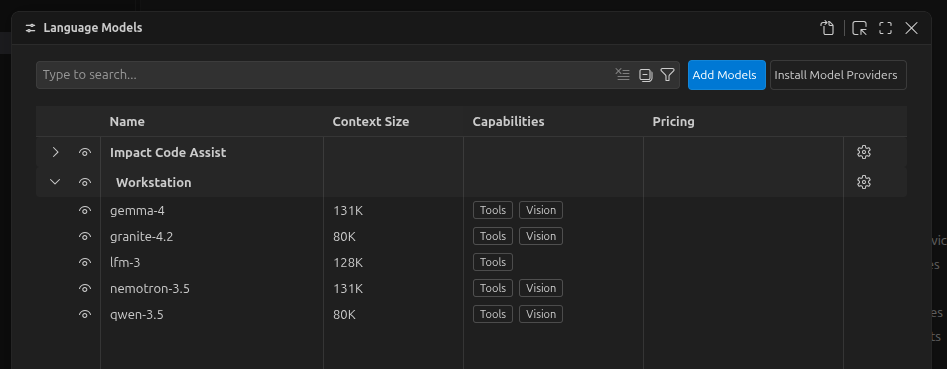
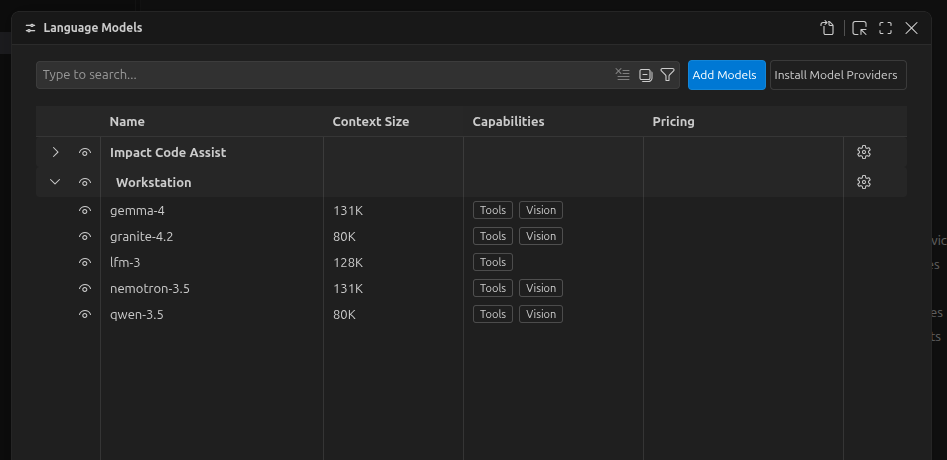
wip(content/posts/llm.md): add conclusion + openwebui

diff --git a/content/posts/llm.md b/content/posts/llm.md
@@ -26,9 +26,9 @@ Cela m'a donné envie de reproduire cet écosystème à la maison.
 </figure>
 
 **Attention**: la configuration qui suit requiert une carte graphique avec au moins 10GB de VRAM pour être utilisable.
-Même avec une telle configuration, les résultats ne seront pas à la hauteur d'un service professionnel.
+Même avec un tel système, les résultats ne seront pas à la hauteur d'un service professionnel.
 
-## 1. Le coeur : service d'inférence
+## 1. Le coeur : un service d'inférence
 
 Pour faire tourner un LLM, de nombreuses solutions existent.
 Les plus pertinentes pour un usage local sont [Ollama][1], [LM Studio][2], [vLLM][4] et [llama.cpp][3].
@@ -62,12 +62,12 @@ volumes:
   llama-data:
 ```
 
-Si vous n'avez pas de carte graphique, remplacez le tag `server-cuda` par `server` et retirez la section `deploy`.
+Il vous faudra peut-être ajuster le tag `server-cuda` et la section `deploy` en fonction de votre carte graphique.
 
 Une fois le service actif (`docker compose up -d`), passez par l'interface web (`http://localhost:8080`) pour choisir un modèle.
 Activez dans les paramètres l'option « Model Discovery », puis rendez-vous dans l'onglet « Models » pour lancer les recherches.
 
-## 2. Le cerveau : modèles
+## 2. Le cerveau : un modèle
 
 Voici ceux qui m'ont semblé les plus adaptés au moment d'écrire cet article :
 
@@ -121,8 +121,10 @@ La variante se lit `editeur/modele-version-taille-format:quantisation`.
 <script src="https://cdn.jsdelivr.net/npm/@nikba/easy-carousel/dist/easy-carousel.min.js"></script>
 <script>
     const carouselParams = {items: 1, loop: true, nav: true, dots: false}
-    const alignments = new EasyCarousel('.llama-webui', carouselParams);
+    const llama = new EasyCarousel('.llama-webui', carouselParams);
 </script>
+
+Voici quelques stats sur les modèles de tout à l'heure :
 
 | Modèle        | Taille sur disque | Taille en RAM | Contexte  | Débit |
 |---------------|-------------------|---------------|-----------|-------|
@@ -133,9 +135,16 @@ La variante se lit `editeur/modele-version-taille-format:quantisation`.
 | Nemotron      | 7.7GB | ??? | 131k/131k | ??? |
 | Mellum        | 9.2GB | ??? | ??k/131k  | ??? |
 
-## 3. Les mains: agents
+Vous pouvez aussi en essayer d'autres, mais si vous souhaitez les utiliser en tant qu'agents,
+assurez-vous qu'ils aient les capacités "tools" et "thinking".
 
-En plus de l'interface web, llama.cpp fournit une [API](https://llama.app/docs/api) sur laquelle se connectent nos agents.
+## 3. La main : un agent
+
+En plus de l'interface web, llama.cpp fournit une [API d'inférence](https://llama.app/docs/api).<br/>
+Cette API permet à des programmes externes d'utiliser le LLM pour interagir avec d'autres systèmes par le biais d'outils.
+Ces outils peuvent notamment prendre la forme d'exécution locale de commandes, de recherche web, de modification de fichier, etc.
+
+Voici un retour d'expérience sur les agents que j'ai eu l'occasion de tester :
 
 | Agent           | CLI | GUI | VSCode | Note | Remarques |
 |-----------------|-----|-----|--------|------|-----------|
@@ -144,6 +153,7 @@ En plus de l'interface web, llama.cpp fournit une [API](https://llama.app/docs/a
 | [Cline][12]     | oui | oui | oui    | 4/5  | L'outil CLI requiert Node.js |
 | [Copilot][13]   | oui | non | oui    | 4/5  | Pas encore testé la CLI |
 | [Aider][14]     | oui | non | non    | 4/5  | Full CLI |
+| [OpenWebUI][19] | non | oui | non    | 4/5  | Full web |
 | [OpenCode][15]  | oui | non | oui    | 3/5  | Full Node.js |
 | [OpenHands][16] | oui | non | non    | 2/5  | Long à démarrer |
 | [Vibe][17]      | oui | non | oui    | 2/5  | Compliqué à configurer |
@@ -158,10 +168,12 @@ En plus de l'interface web, llama.cpp fournit une [API](https://llama.app/docs/a
 [16]: https://www.openhands.dev/
 [17]: https://mistral.ai/products/vibe/
 [18]: https://continue.dev
+[19]: https://docs.openwebui.com/
 
 D'après ce comparatif parfaitement impartial, je suggère donc Claude Code ou Codex
 si vous privilégiez l'expérience utilisateur à la vie privée.
-Sinon, Copilot pour VSCode et Aider pour la CLI.
+
+Sinon, Copilot pour VSCode, OpenWebUI pour le chat, et Aider pour la CLI.
 
 ### 3.1 En ligne de commande
 
@@ -217,23 +229,30 @@ aider --model openai/unsloth/Qwen3.5-9B-GGUF:Q6_K \
 ]
 ```
 
-<figure>
-	<img src="/llm/messages.png" alt="Messages">
-	<figcaption>Déroulé de la conversation</figcaption>
-</figure>
-
-<br/>
+Aperçu de fonctionnement depuis l'interface :
 
 <figure>
-	<img src="/llm/session.png" alt="Session">
-	<figcaption>Statistiques sur le contexte</figcaption>
+    <div class="vscode">
+        <img src="/llm/vscode/messages.png" style="height: 400px" alt="Messages">
+        <img src="/llm/vscode/session.png" style="height: 400px" alt="Session">
+        <img src="/llm/vscode/models.png" style="height: 400px" alt="Modèles">
+    </div>
 </figure>
 
-<br/>
-
-<figure>
-	<img src="/llm/models.png" alt="Modèles">
-	<figcaption>Caractéristiques des modèles</figcaption>
-</figure>
+<link rel="stylesheet" href="https://cdn.jsdelivr.net/npm/@nikba/easy-carousel/dist/easy-carousel.min.css">
+<script src="https://cdn.jsdelivr.net/npm/@nikba/easy-carousel/dist/easy-carousel.min.js"></script>
+<script>
+    const carouselParams2 = {items: 1, loop: true, nav: true, dots: false}
+    const vscode = new EasyCarousel('.vscode', carouselParams2);
+</script>
 
 ## Conclusion
+
+Les résultats obtenus avec cette méthode sont encourageants :
+la preuve de concept est là, les modèles fonctionnent en mode chat et en mode agent.
+Malheureusement, on voit apparaître assez rapidement les limites du matériel, car le contexte sature assez vite
+et fait planter les agents après quelques tours. Il y a toutefois une petite marge de manoeuvre suivant les modèles,
+et la recherche est encore relativement active à ce sujet : on peut donc garder espoir que l'inférence locale
+continue à se démocratiser dans les prochaines années.
+
+En attendant, l'outillage reste adapté aux fournisseurs externes.
